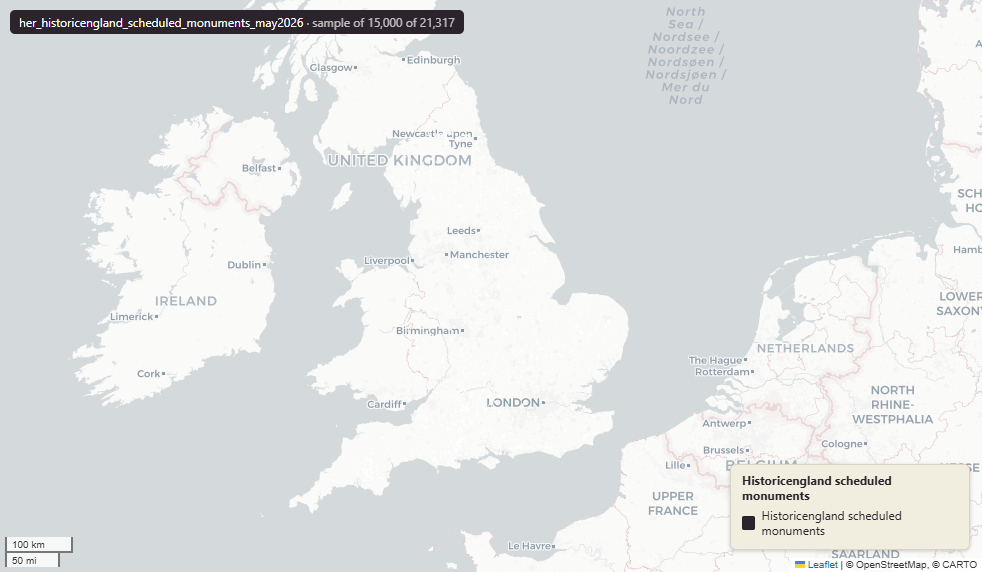
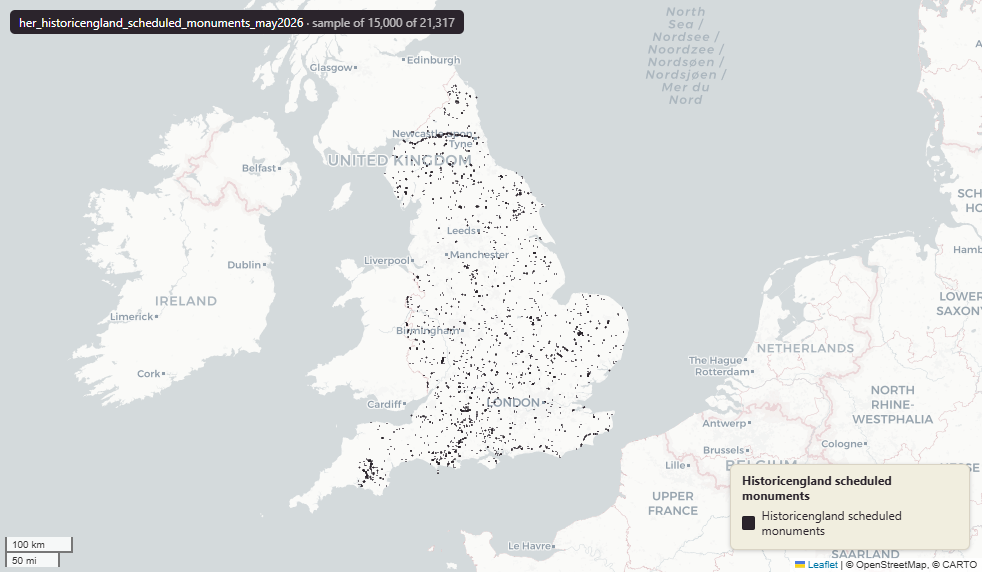
Deployed e95b1a5 with MkDocs version: 1.6.1

diff --git a/index.html b/index.html
@@ -5151,7 +5151,7 @@
 
 <h1 id="uk_baseline-data-catalogue">uk_baseline data catalogue<a class="headerlink" href="#uk_baseline-data-catalogue" title="Permanent link">&para;</a></h1>
 <p>This is the P+P <code>uk_baseline</code> database layer catalogue. Generated automatically
-from the database's own documentation on <strong>02 June 2026</strong>.</p>
+from the database's own documentation on <strong>03 June 2026</strong>.</p>
 <p><strong>139 layers across 12 themes.</strong></p>
 <table>
 <thead>

diff --git a/HER/her_historicengland_battlefields_may2026/index.html b/HER/her_historicengland_battlefields_may2026/index.html
@@ -5222,6 +5222,7 @@
 
 <h1 id="historic-england-register-of-historic-battlefields-england-may-2026">Historic England Register of Historic Battlefields (England), May 2026<a class="headerlink" href="#historic-england-register-of-historic-battlefields-england-may-2026" title="Permanent link">&para;</a></h1>
 <p><code>her_historicengland_battlefields_may2026</code></p>
+<p><img src="../../maps/her_historicengland_battlefields_may2026.png" alt="Styling preview of her_historicengland_battlefields_may2026" loading="lazy" style="width:100%;border:1px solid #d9d3c4;border-radius:8px;margin:6px 0 4px;"></p>
 <p><a href="http://localhost:7800/?layer=uk_baseline.her_historicengland_battlefields_may2026" target="_blank" rel="noopener">Open in the Dashboard &#8599;</a> <span style="opacity:.6;font-size:.85em;">(start your local Dashboard first)</span></p>
 <p><strong>SOURCE</strong></p>
 <ul>

diff --git a/HER/her_historicengland_conservation_areas_jul2025/index.html b/HER/her_historicengland_conservation_areas_jul2025/index.html
@@ -5222,6 +5222,7 @@
 
 <h1 id="historic-england-conservation-areas-england-july-2025">Historic England Conservation Areas (England), July 2025<a class="headerlink" href="#historic-england-conservation-areas-england-july-2025" title="Permanent link">&para;</a></h1>
 <p><code>her_historicengland_conservation_areas_jul2025</code></p>
+<p><img src="../../maps/her_historicengland_conservation_areas_jul2025.png" alt="Styling preview of her_historicengland_conservation_areas_jul2025" loading="lazy" style="width:100%;border:1px solid #d9d3c4;border-radius:8px;margin:6px 0 4px;"></p>
 <p><a href="http://localhost:7800/?layer=uk_baseline.her_historicengland_conservation_areas_jul2025" target="_blank" rel="noopener">Open in the Dashboard &#8599;</a> <span style="opacity:.6;font-size:.85em;">(start your local Dashboard first)</span></p>
 <p><strong>SOURCE</strong></p>
 <ul>

diff --git a/HER/her_historicengland_heritage_at_risk_jan2026/index.html b/HER/her_historicengland_heritage_at_risk_jan2026/index.html
@@ -5222,6 +5222,7 @@
 
 <h1 id="historic-england-heritage-at-risk-register-england-january-2026">Historic England Heritage at Risk Register (England), January 2026<a class="headerlink" href="#historic-england-heritage-at-risk-register-england-january-2026" title="Permanent link">&para;</a></h1>
 <p><code>her_historicengland_heritage_at_risk_jan2026</code></p>
+<p><img src="../../maps/her_historicengland_heritage_at_risk_jan2026.png" alt="Styling preview of her_historicengland_heritage_at_risk_jan2026" loading="lazy" style="width:100%;border:1px solid #d9d3c4;border-radius:8px;margin:6px 0 4px;"></p>
 <p><a href="http://localhost:7800/?layer=uk_baseline.her_historicengland_heritage_at_risk_jan2026" target="_blank" rel="noopener">Open in the Dashboard &#8599;</a> <span style="opacity:.6;font-size:.85em;">(start your local Dashboard first)</span></p>
 <p>Published via planning.data.gov.uk (digital-land).</p>
 <p><strong>SOURCE</strong></p>

diff --git a/HER/her_historicengland_listed_building_points_may2026/index.html b/HER/her_historicengland_listed_building_points_may2026/index.html
@@ -5222,6 +5222,7 @@
 
 <h1 id="historic-england-listed-buildings-england-point-geometry-may-2026">Historic England Listed Buildings (England) — point geometry, May 2026<a class="headerlink" href="#historic-england-listed-buildings-england-point-geometry-may-2026" title="Permanent link">&para;</a></h1>
 <p><code>her_historicengland_listed_building_points_may2026</code></p>
+<p><img src="../../maps/her_historicengland_listed_building_points_may2026.png" alt="Styling preview of her_historicengland_listed_building_points_may2026" loading="lazy" style="width:100%;border:1px solid #d9d3c4;border-radius:8px;margin:6px 0 4px;"></p>
 <p><a href="http://localhost:7800/?layer=uk_baseline.her_historicengland_listed_building_points_may2026" target="_blank" rel="noopener">Open in the Dashboard &#8599;</a> <span style="opacity:.6;font-size:.85em;">(start your local Dashboard first)</span></p>
 <p><strong>SOURCE</strong></p>
 <ul>

diff --git a/HER/her_historicengland_listed_building_polygons_may2026/index.html b/HER/her_historicengland_listed_building_polygons_may2026/index.html
@@ -5222,6 +5222,7 @@
 
 <h1 id="historic-england-listed-buildings-england-polygon-geometry-may-2026">Historic England Listed Buildings (England) — polygon geometry, May 2026<a class="headerlink" href="#historic-england-listed-buildings-england-polygon-geometry-may-2026" title="Permanent link">&para;</a></h1>
 <p><code>her_historicengland_listed_building_polygons_may2026</code></p>
+<p><img src="../../maps/her_historicengland_listed_building_polygons_may2026.png" alt="Styling preview of her_historicengland_listed_building_polygons_may2026" loading="lazy" style="width:100%;border:1px solid #d9d3c4;border-radius:8px;margin:6px 0 4px;"></p>
 <p><a href="http://localhost:7800/?layer=uk_baseline.her_historicengland_listed_building_polygons_may2026" target="_blank" rel="noopener">Open in the Dashboard &#8599;</a> <span style="opacity:.6;font-size:.85em;">(start your local Dashboard first)</span></p>
 <p><strong>SOURCE</strong></p>
 <ul>

diff --git a/HER/her_historicengland_national_trust_land_aug2024/index.html b/HER/her_historicengland_national_trust_land_aug2024/index.html
@@ -5222,6 +5222,7 @@
 
 <h1 id="national-trust-land-england-wales-august-2024">National Trust Land (England &amp; Wales), August 2024<a class="headerlink" href="#national-trust-land-england-wales-august-2024" title="Permanent link">&para;</a></h1>
 <p><code>her_historicengland_national_trust_land_aug2024</code></p>
+<p><img src="../../maps/her_historicengland_national_trust_land_aug2024.png" alt="Styling preview of her_historicengland_national_trust_land_aug2024" loading="lazy" style="width:100%;border:1px solid #d9d3c4;border-radius:8px;margin:6px 0 4px;"></p>
 <p><a href="http://localhost:7800/?layer=uk_baseline.her_historicengland_national_trust_land_aug2024" target="_blank" rel="noopener">Open in the Dashboard &#8599;</a> <span style="opacity:.6;font-size:.85em;">(start your local Dashboard first)</span></p>
 <p>One row per National Trust land parcel.</p>
 <p><strong>SOURCE</strong></p>

diff --git a/HER/her_historicengland_parks_gardens_may2026/index.html b/HER/her_historicengland_parks_gardens_may2026/index.html
@@ -5222,6 +5222,7 @@
 
 <h1 id="historic-england-register-of-parks-and-gardens-of-special-historic-interest-england-may-2026">Historic England Register of Parks and Gardens of Special Historic Interest (England), May 2026<a class="headerlink" href="#historic-england-register-of-parks-and-gardens-of-special-historic-interest-england-may-2026" title="Permanent link">&para;</a></h1>
 <p><code>her_historicengland_parks_gardens_may2026</code></p>
+<p><img src="../../maps/her_historicengland_parks_gardens_may2026.png" alt="Styling preview of her_historicengland_parks_gardens_may2026" loading="lazy" style="width:100%;border:1px solid #d9d3c4;border-radius:8px;margin:6px 0 4px;"></p>
 <p><a href="http://localhost:7800/?layer=uk_baseline.her_historicengland_parks_gardens_may2026" target="_blank" rel="noopener">Open in the Dashboard &#8599;</a> <span style="opacity:.6;font-size:.85em;">(start your local Dashboard first)</span></p>
 <p><strong>SOURCE</strong></p>
 <ul>

diff --git a/HER/her_historicengland_protected_wrecks_may2026/index.html b/HER/her_historicengland_protected_wrecks_may2026/index.html
@@ -5222,6 +5222,7 @@
 
 <h1 id="historic-england-protected-wreck-sites-england-may-2026">Historic England Protected Wreck Sites (England), May 2026<a class="headerlink" href="#historic-england-protected-wreck-sites-england-may-2026" title="Permanent link">&para;</a></h1>
 <p><code>her_historicengland_protected_wrecks_may2026</code></p>
+<p><img src="../../maps/her_historicengland_protected_wrecks_may2026.png" alt="Styling preview of her_historicengland_protected_wrecks_may2026" loading="lazy" style="width:100%;border:1px solid #d9d3c4;border-radius:8px;margin:6px 0 4px;"></p>
 <p><a href="http://localhost:7800/?layer=uk_baseline.her_historicengland_protected_wrecks_may2026" target="_blank" rel="noopener">Open in the Dashboard &#8599;</a> <span style="opacity:.6;font-size:.85em;">(start your local Dashboard first)</span></p>
 <p><strong>SOURCE</strong></p>
 <ul>

diff --git a/HER/her_historicengland_scheduled_monuments_may2026/index.html b/HER/her_historicengland_scheduled_monuments_may2026/index.html
@@ -5222,6 +5222,7 @@
 
 <h1 id="historic-england-scheduled-monuments-england-may-2026">Historic England Scheduled Monuments (England), May 2026<a class="headerlink" href="#historic-england-scheduled-monuments-england-may-2026" title="Permanent link">&para;</a></h1>
 <p><code>her_historicengland_scheduled_monuments_may2026</code></p>
+<p><img src="../../maps/her_historicengland_scheduled_monuments_may2026.png" alt="Styling preview of her_historicengland_scheduled_monuments_may2026" loading="lazy" style="width:100%;border:1px solid #d9d3c4;border-radius:8px;margin:6px 0 4px;"></p>
 <p><a href="http://localhost:7800/?layer=uk_baseline.her_historicengland_scheduled_monuments_may2026" target="_blank" rel="noopener">Open in the Dashboard &#8599;</a> <span style="opacity:.6;font-size:.85em;">(start your local Dashboard first)</span></p>
 <p><strong>SOURCE</strong></p>
 <ul>

diff --git a/HER/her_historicengland_world_heritage_sites_may2026/index.html b/HER/her_historicengland_world_heritage_sites_may2026/index.html
@@ -5222,6 +5222,7 @@
 
 <h1 id="historic-england-world-heritage-sites-england-may-2026">Historic England World Heritage Sites (England), May 2026<a class="headerlink" href="#historic-england-world-heritage-sites-england-may-2026" title="Permanent link">&para;</a></h1>
 <p><code>her_historicengland_world_heritage_sites_may2026</code></p>
+<p><img src="../../maps/her_historicengland_world_heritage_sites_may2026.png" alt="Styling preview of her_historicengland_world_heritage_sites_may2026" loading="lazy" style="width:100%;border:1px solid #d9d3c4;border-radius:8px;margin:6px 0 4px;"></p>
 <p><a href="http://localhost:7800/?layer=uk_baseline.her_historicengland_world_heritage_sites_may2026" target="_blank" rel="noopener">Open in the Dashboard &#8599;</a> <span style="opacity:.6;font-size:.85em;">(start your local Dashboard first)</span></p>
 <p><strong>SOURCE</strong></p>
 <ul>

diff --git a/HER/her_nationaltrust_always_open_oct2025/index.html b/HER/her_nationaltrust_always_open_oct2025/index.html
@@ -5222,6 +5222,7 @@
 
 <h1 id="national-trust-land-always-open-england-wales-october-2025">National Trust Land — Always Open (England &amp; Wales), October 2025<a class="headerlink" href="#national-trust-land-always-open-england-wales-october-2025" title="Permanent link">&para;</a></h1>
 <p><code>her_nationaltrust_always_open_oct2025</code></p>
+<p><img src="../../maps/her_nationaltrust_always_open_oct2025.png" alt="Styling preview of her_nationaltrust_always_open_oct2025" loading="lazy" style="width:100%;border:1px solid #d9d3c4;border-radius:8px;margin:6px 0 4px;"></p>
 <p><a href="http://localhost:7800/?layer=uk_baseline.her_nationaltrust_always_open_oct2025" target="_blank" rel="noopener">Open in the Dashboard &#8599;</a> <span style="opacity:.6;font-size:.85em;">(start your local Dashboard first)</span></p>
 <p><strong>SOURCE</strong></p>
 <ul>